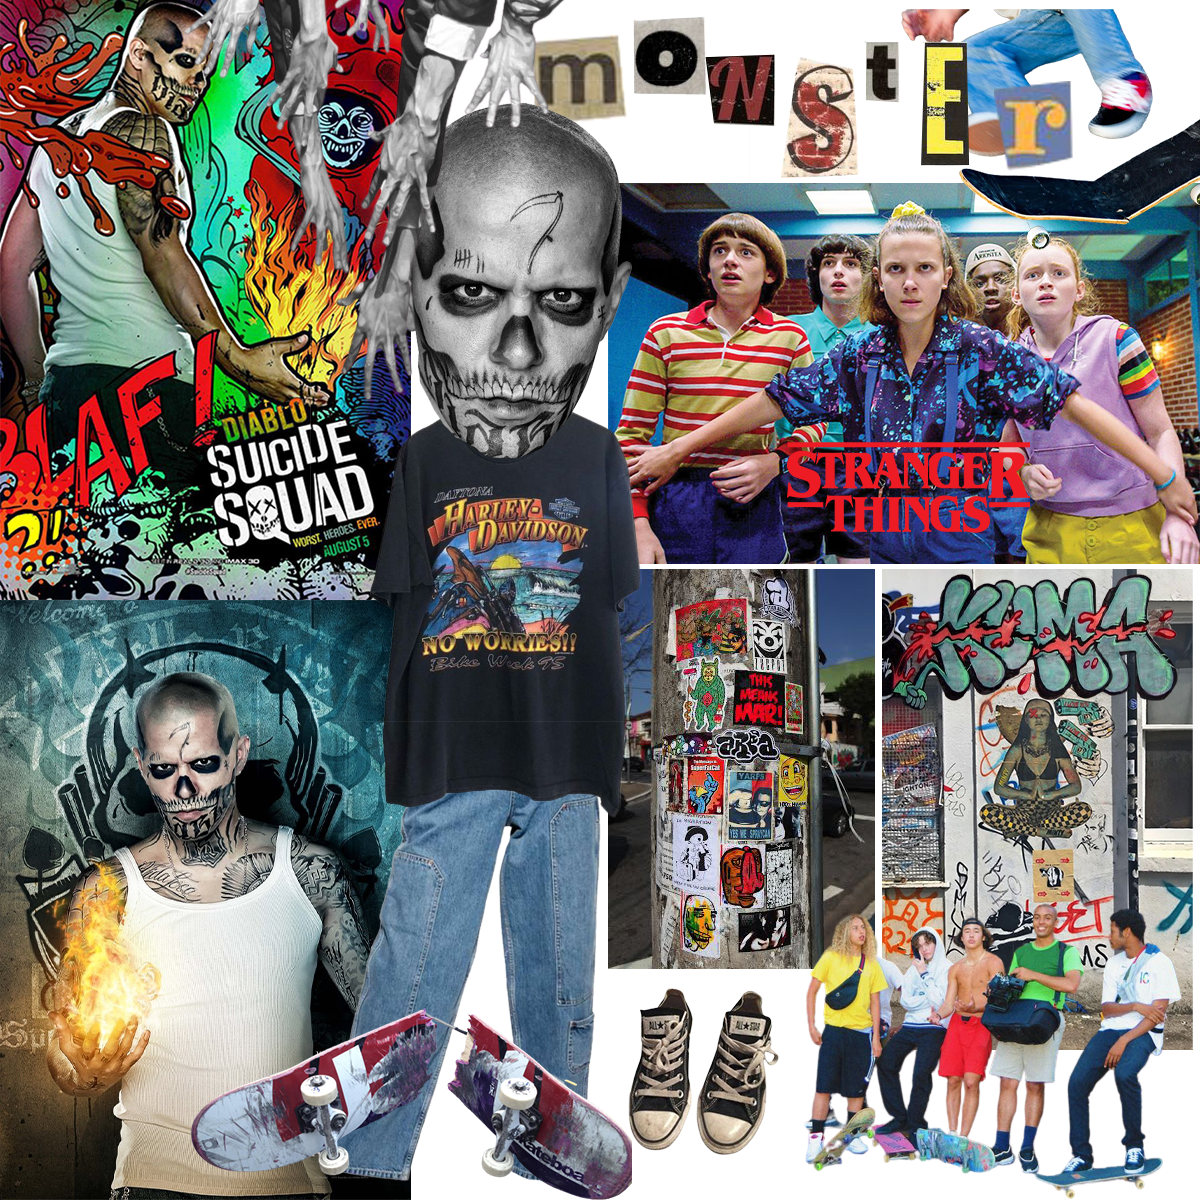
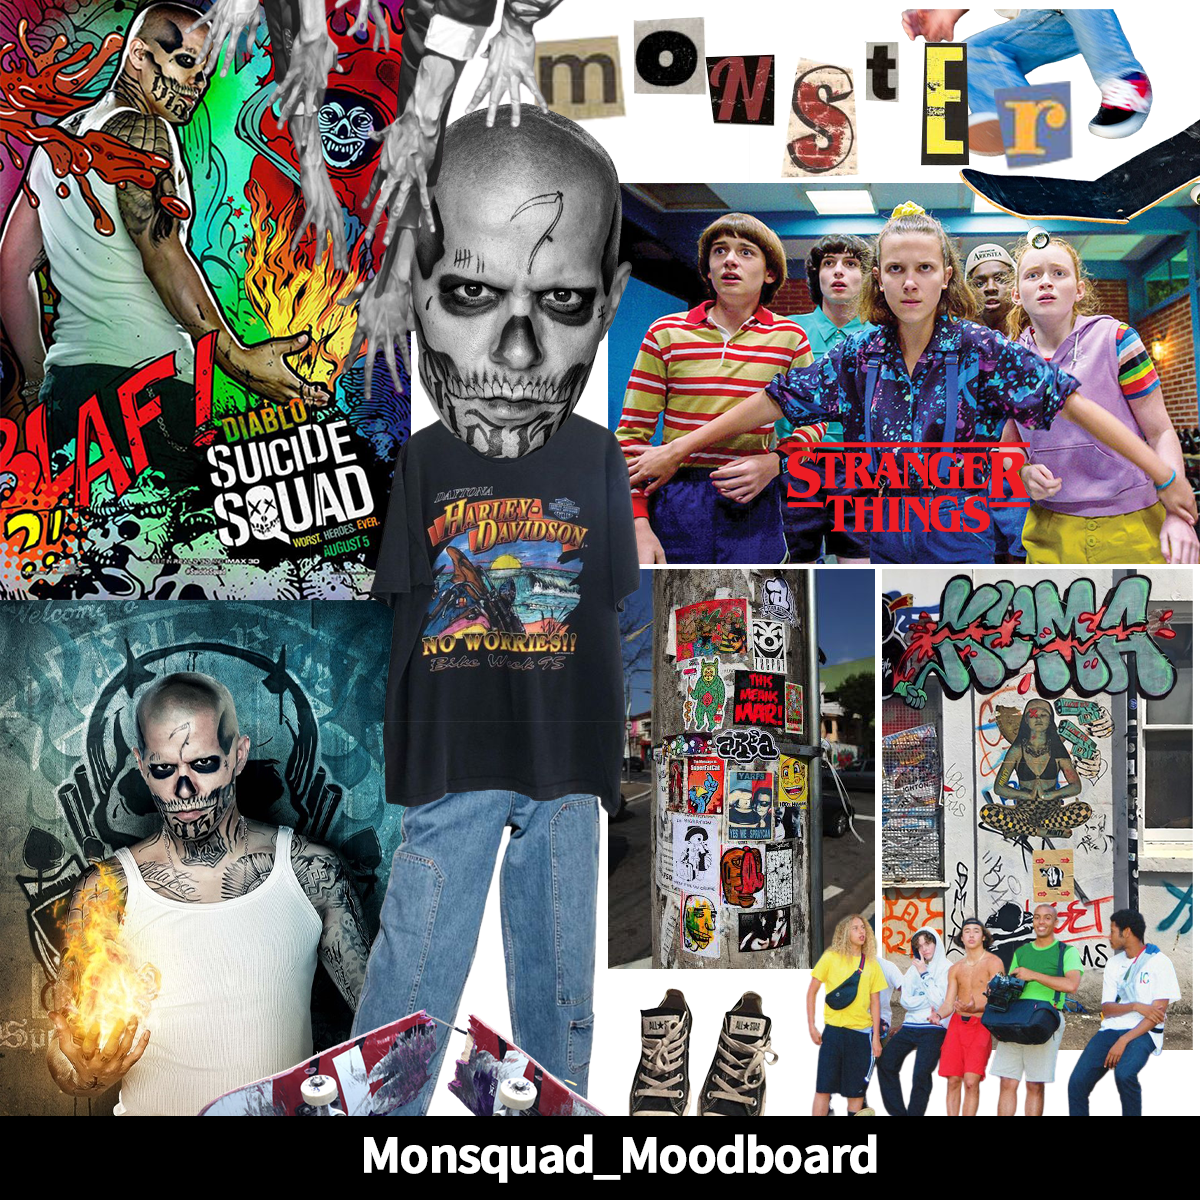
adjust responsive size

Changed region(s): [[0.0, 0.925, 1.0, 1.0]]

diff --git a/websites/wesbite-css/style.css b/websites/wesbite-css/style.css
@@ -26,6 +26,20 @@ a {
 	text-decoration: none;
 }
 
+button {
+    border: 1px solid #333;
+    color: black;
+    transition: 0.2s;
+}
+
+button:hover {
+ background-color: darkblue;
+ color: white;
+}
+
+
+/* menu bar */
+
 .local-nav{
     height: 52px;
     border-bottom: 1px solid #ddd;
@@ -78,66 +92,10 @@ transform: scale(1.1);
     padding: 10px;
 }
 
+/* section common */
+
 section {
     height: 100%;
-}
-
-.intro .intro-wrapper{
-    margin-top: 10rem;
-    height: 100%;
-}
-
-.intro h1{
-    font-size: 5rem;
-}
-
-.main-message{
-    font-size: 2.5rem;
-    margin-top: 2rem;
-}
-
-.main-sns{
-    padding: 3rem 0;
-    display: flex;
-    align-items: center;
-}
-
-.main-sns .sns-left{
-    display: flex;
-}
-
-.main-sns img{
-    margin-right: 0.6rem;
-    display: block;
-}
-
-button {
-    border: 1px solid #333;
-    color: black;
-    transition: 0.2s;
-}
-
-button:hover {
- background-color: darkblue;
- color: white;
-}
-
-.intro .main-sns .main-email{
-    margin-left: auto;
-}
-
-.intro-picture{
-    background-image: url('/websites/images/websites-intro.png');
-    background-size: cover;
-    width: 100%;
-    height: 500px;
-}
-.project {
-    margin-top: 10em;
-}
-
-.project-title{
-    font-size: 2.5rem;
 }
 
 .responsive{
@@ -146,39 +104,18 @@ button:hover {
     color: #fff;
 }
 
+.project {
+    margin-top: 10em;
+}
+
 .project-photo{
+    width: 100%;
+    height: 100%;
     margin-top: 3rem;
 }
 
-.project-photo-box{
-    display: flex;
-}
-
-/* .project-photo.monsquad {
-background: url('/websites/images/monsquadmonbile1.gif');
-background-repeat: no-repeat;
-background-size: cover;
-width: 414px;
-height: 600px;
-border: 2px solid black;
-margin-right: 10px;
-} */
-
-
-.project-photo.monsquad-moodboard{
-width: 600px;
-height: 600px;
-background: url('/websites/images/monsquad-mood-board.png');
-background-size: cover;
-}
-
-.project-photo.monsquad-moodboard>p{
-    font-size: 30px;
-    font-weight: bold;
-    color: white;
-    display: block;
-    background-color: black;
-    padding-left: 4em;
+.project-title{
+    font-size: 2.5rem;
 }
 
 .project-desc{
@@ -209,6 +146,82 @@ background-size: cover;
     margin-right: 10px;
 }
 
+
+/* section - intro */
+.intro .intro-wrapper{
+    margin-top: 10rem;
+    height: 100%;
+}
+
+.intro h1{
+    font-size: 5rem;
+}
+
+.main-message{
+    font-size: 2.5rem;
+    margin-top: 2rem;
+}
+
+.main-sns{
+    padding: 3rem 0;
+    display: flex;
+    align-items: center;
+}
+
+.main-sns .sns-left{
+    display: flex;
+}
+
+.main-sns img{
+    margin-right: 0.6rem;
+    display: block;
+}
+
+.intro .main-sns .main-email{
+    margin-left: auto;
+}
+
+.intro-picture{
+    width: 100%;
+    height: 100%;
+}
+
+/* section - project airmug */
+
+.project-photo-box{
+    display: flex;
+}
+
+.project-photo.monsquad {
+width: 414px;
+height: 600px;
+border: 3px solid black;
+margin-left: 10px;
+box-sizing: border-box;
+}
+
+.project-photo.monsquad-moodboard{
+width: 600px;
+height: 100%;
+}
+
+.project-photo.monsquad-moodboard>p{
+    font-size: 30px;
+    font-weight: bold;
+    color: white;
+    display: block;
+    background-color: black;
+    padding-left: 4em;
+}
+
+@media screen and (max-width: 768px){
+    .project-photo.monsquad {
+        display: none;
+    }
+}
+
+
+/* footer and others */
 footer{
 	border-top: 1px solid black;
 	color: black;

diff --git a/websites/index.html b/websites/index.html
@@ -42,7 +42,7 @@
                     </div>
                     <p class="main-email">suhyeonkr@gmail.com</p>
                 </div>
-               <div class="intro-picture"></div>
+              <img class="intro-picture" src="./images/websites-intro.png" alt="">
                
             </div>
         </section>
@@ -56,7 +56,7 @@
                 <h2>Airmug-Pro</h2>
             </div>
 
-            <img class="project-photo airmug" src="./images/project-photo-airmug.png" alt="">
+            <img class="project-photo airmug" src="./images/airmugphoto.png" alt="">
 
             <div class="project-desc">
                 <p class="overview">Overview</p>
@@ -79,16 +79,8 @@
             </div>
 
             <div class="project-photo-box">
-                <div class="project-photo monsquad"></div>
-           
-                <div class="project-photo monsquad-moodboard">
-                    <p>Monsquad-moodboard</p>
-                </div>
-            </div>
-
-            <div class="photos">
-                <div class="web-photo"></div>
-                <div class="mobile-photo"></div>
+                <img class="project-photo monsquad-moodboard" src="./images/monsquad-mood-board.png" alt="">
+                <img class="project-photo monsquad" src="./images/monsquad-mobile.gif">
             </div>
             <div class="project-desc">
                 <p class="overview">Overview</p>
@@ -108,7 +100,7 @@
                 <button class="responsive">2022.5</button>
                 <h2>YG-Entertainment</h2>
             </div>
-            <img class="yg-web-photo" src="./images/ygphoto.jpg" alt="">
+            <img class="project-photo yg-photo" src="./images/ygphoto.jpg" alt="">
             <div class="project-desc">
                 <p class="overview">Overview</p>
                 <span class="description">Lorem Ipsum is simply dummy text of the printing and typesetting industry. <br>
